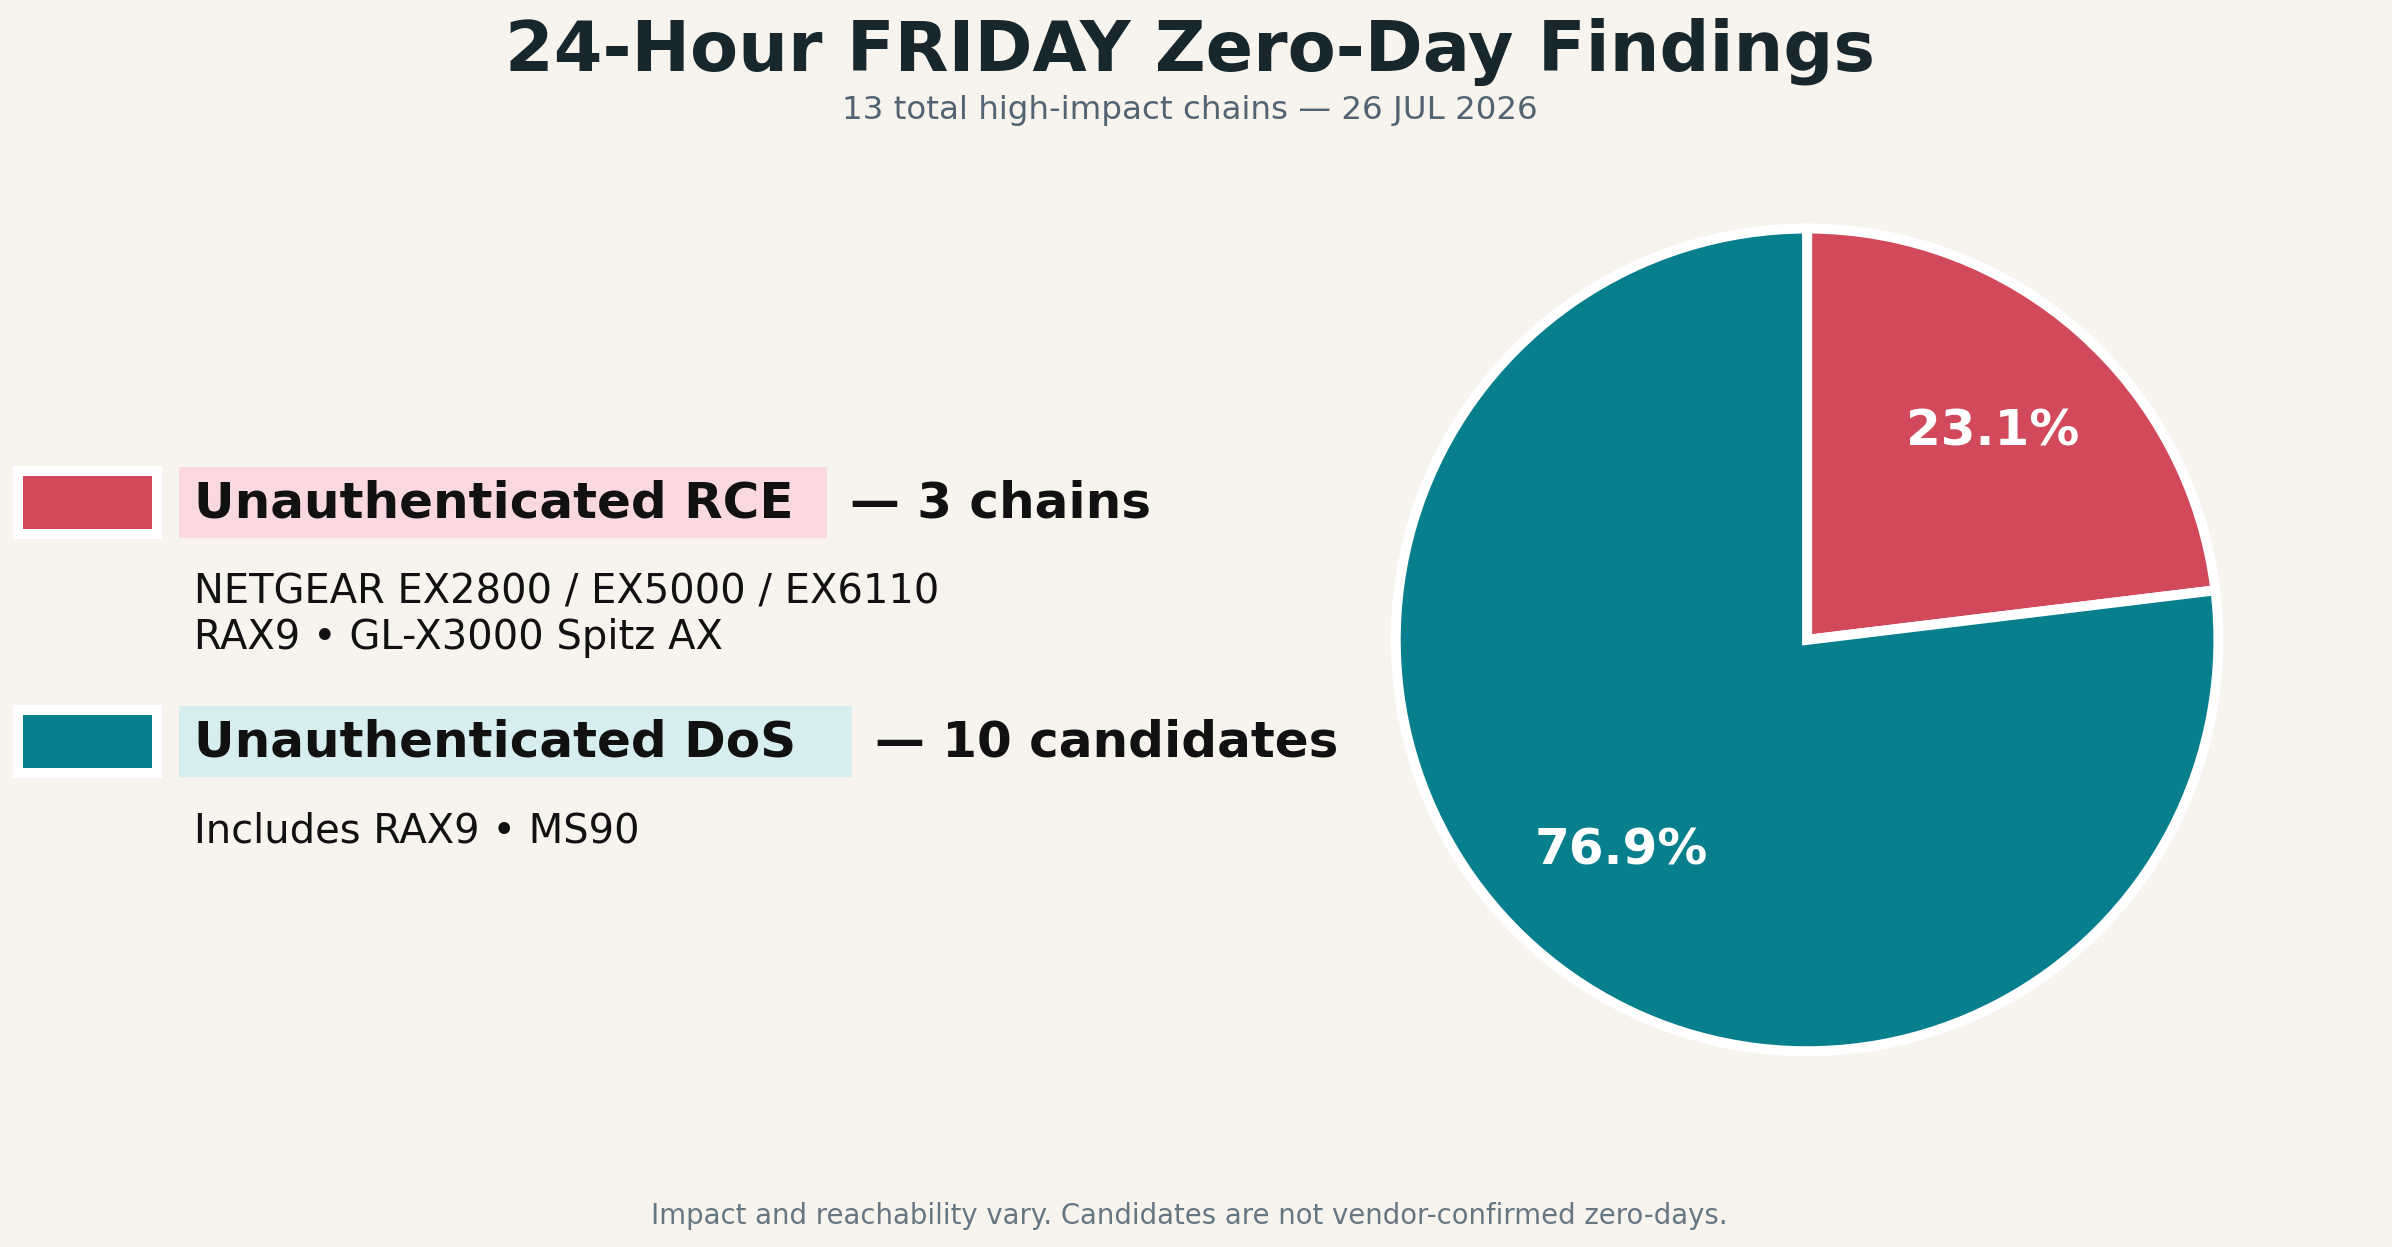
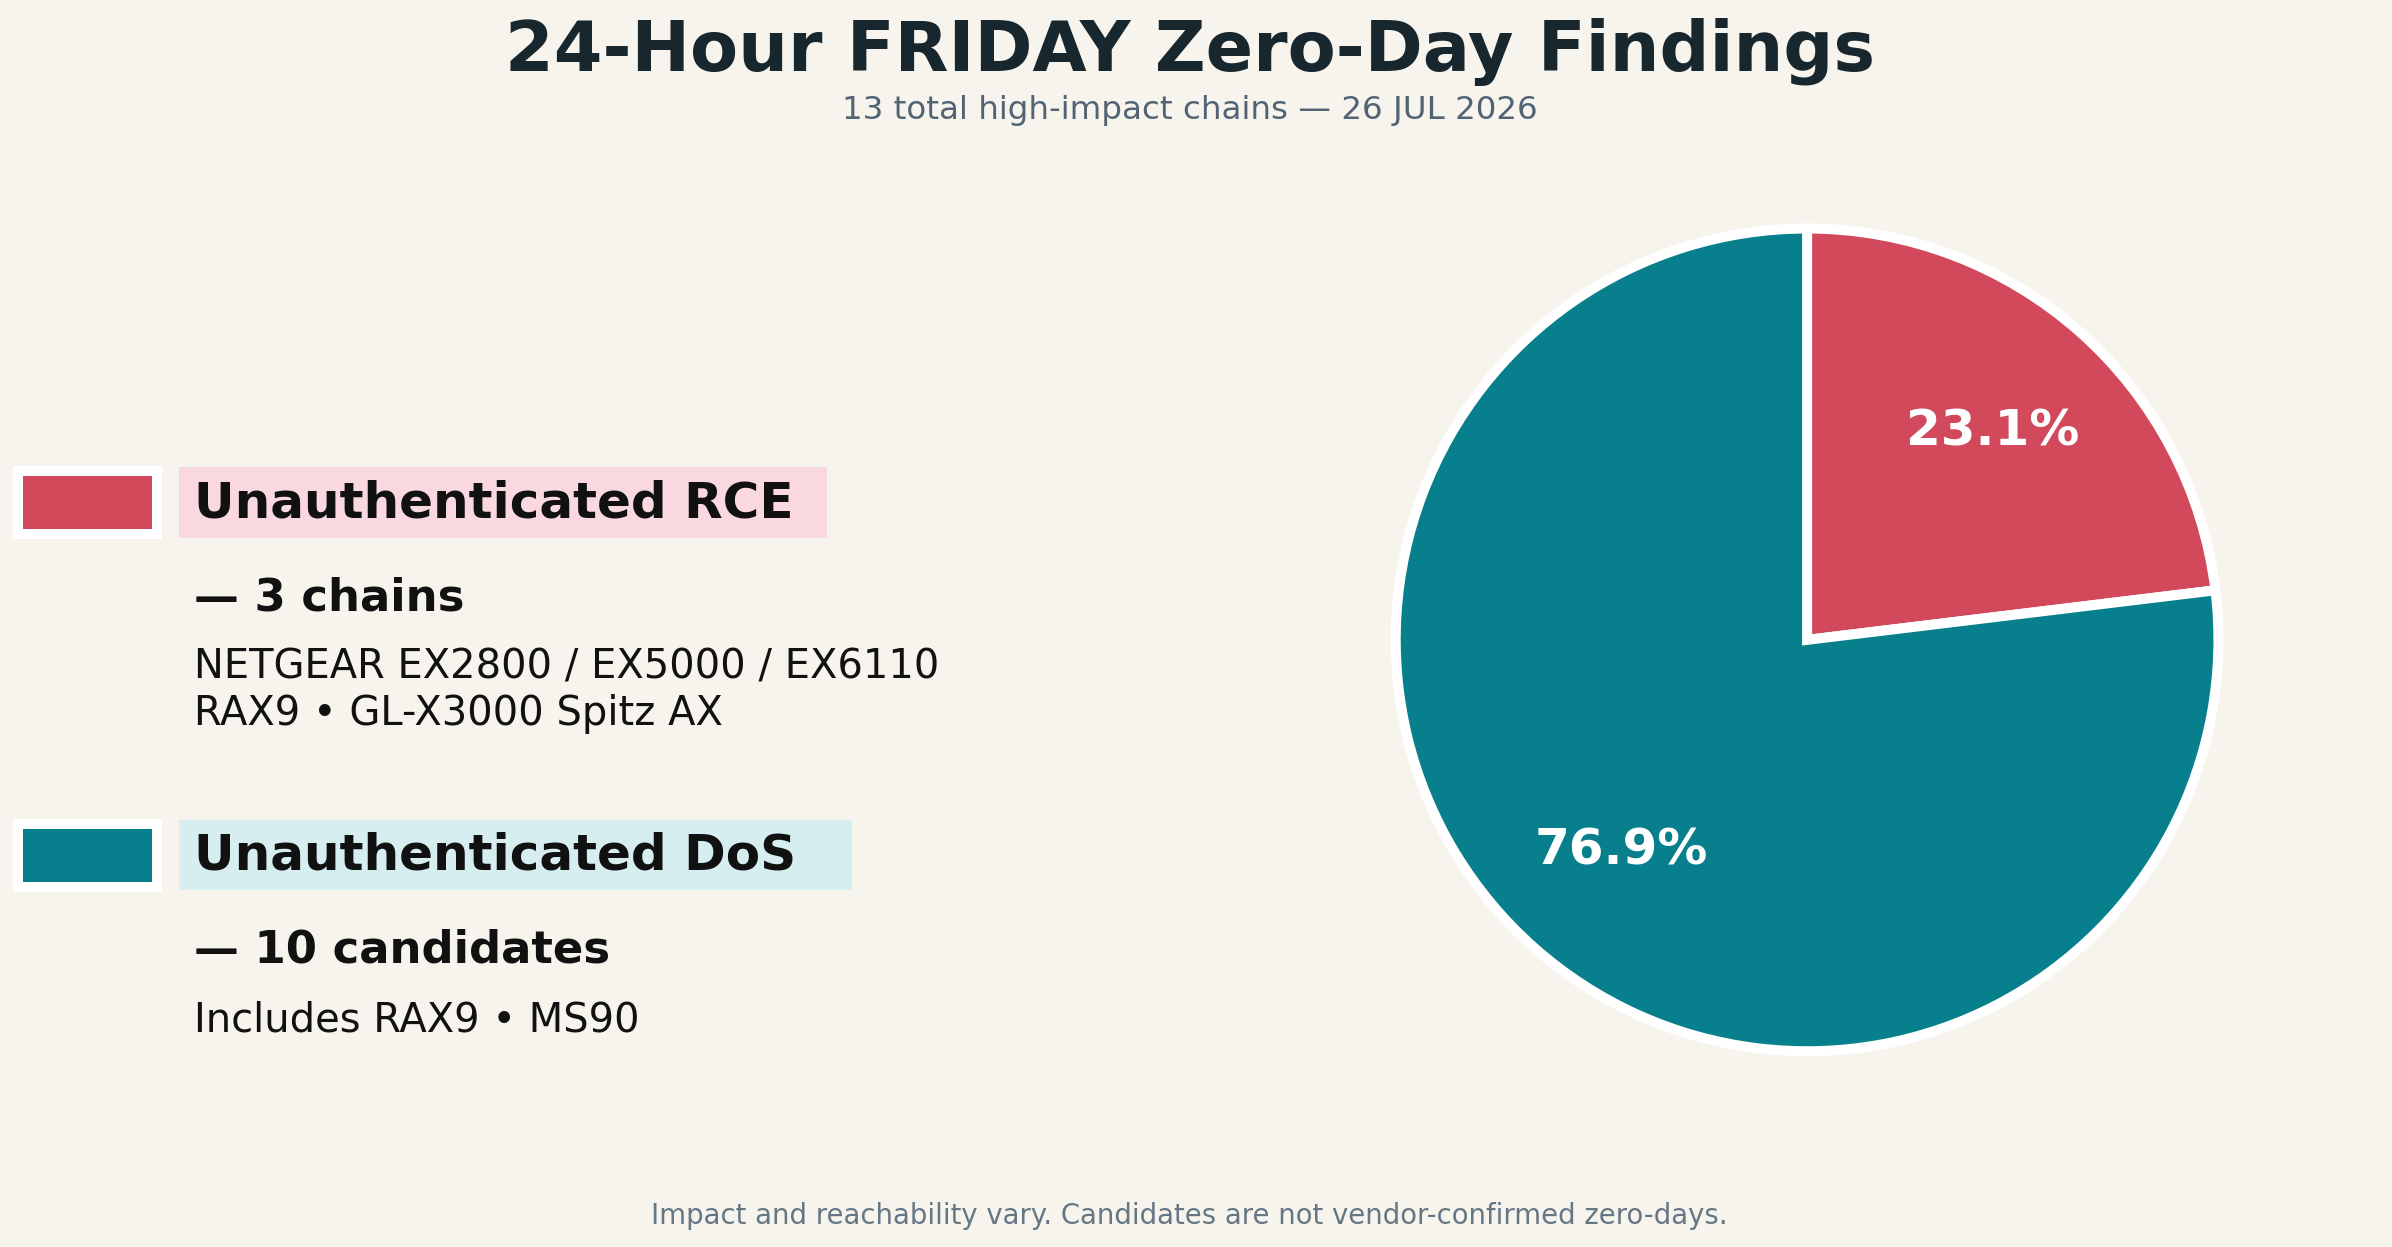
Stack chart counts below category labels

Changed region(s): [[0.0, 0.4571, 0.5569, 0.8228], [0.3712, 0.3962, 0.495, 0.4266]]

diff --git a/scripts/build_24_hour_findings_pie.py b/scripts/build_24_hour_findings_pie.py
@@ -36,7 +36,7 @@ def main() -> None:
     key_x = 0.105
     heading_size = 20
     detail_size = 16
-    for color, highlight, heading_y, heading, count_text, highlight_width, count_x, details in (
+    for color, highlight, heading_y, heading, count_text, highlight_width, details in (
         (
             colors[0],
             "#f9d9df",
@@ -44,17 +44,15 @@ def main() -> None:
             labels[0],
             f"— {counts[0]} chains",
             0.245,
-            0.365,
             "NETGEAR EX2800 / EX5000 / EX6110\nRAX9 • GL-X3000 Spitz AX",
         ),
         (
             colors[1],
             "#d7eef1",
-            0.40,
+            0.31,
             labels[1],
             f"— {counts[1]} candidates",
             0.255,
-            0.375,
             "Includes RAX9 • MS90",
         ),
     ):
@@ -90,18 +88,18 @@ def main() -> None:
             color="#111111",
         )
         fig.text(
-            count_x,
-            heading_y,
+            key_x,
+            heading_y - 0.058,
             count_text,
             ha="left",
-            va="center",
-            fontsize=heading_size,
+            va="top",
+            fontsize=18,
             fontweight="bold",
             color="#111111",
         )
         fig.text(
             key_x,
-            heading_y - 0.055,
+            heading_y - 0.115,
             details,
             ha="left",
             va="top",
